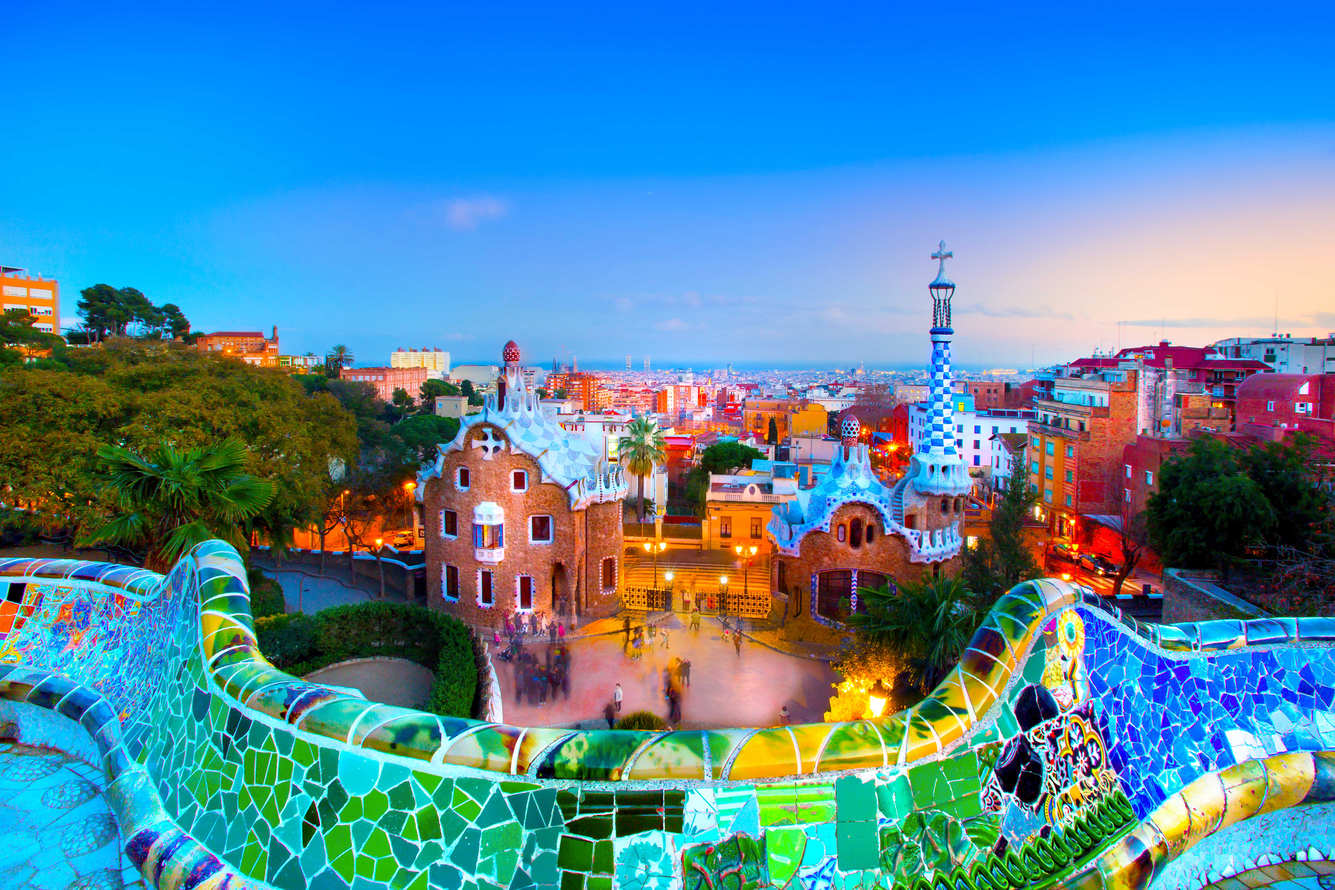
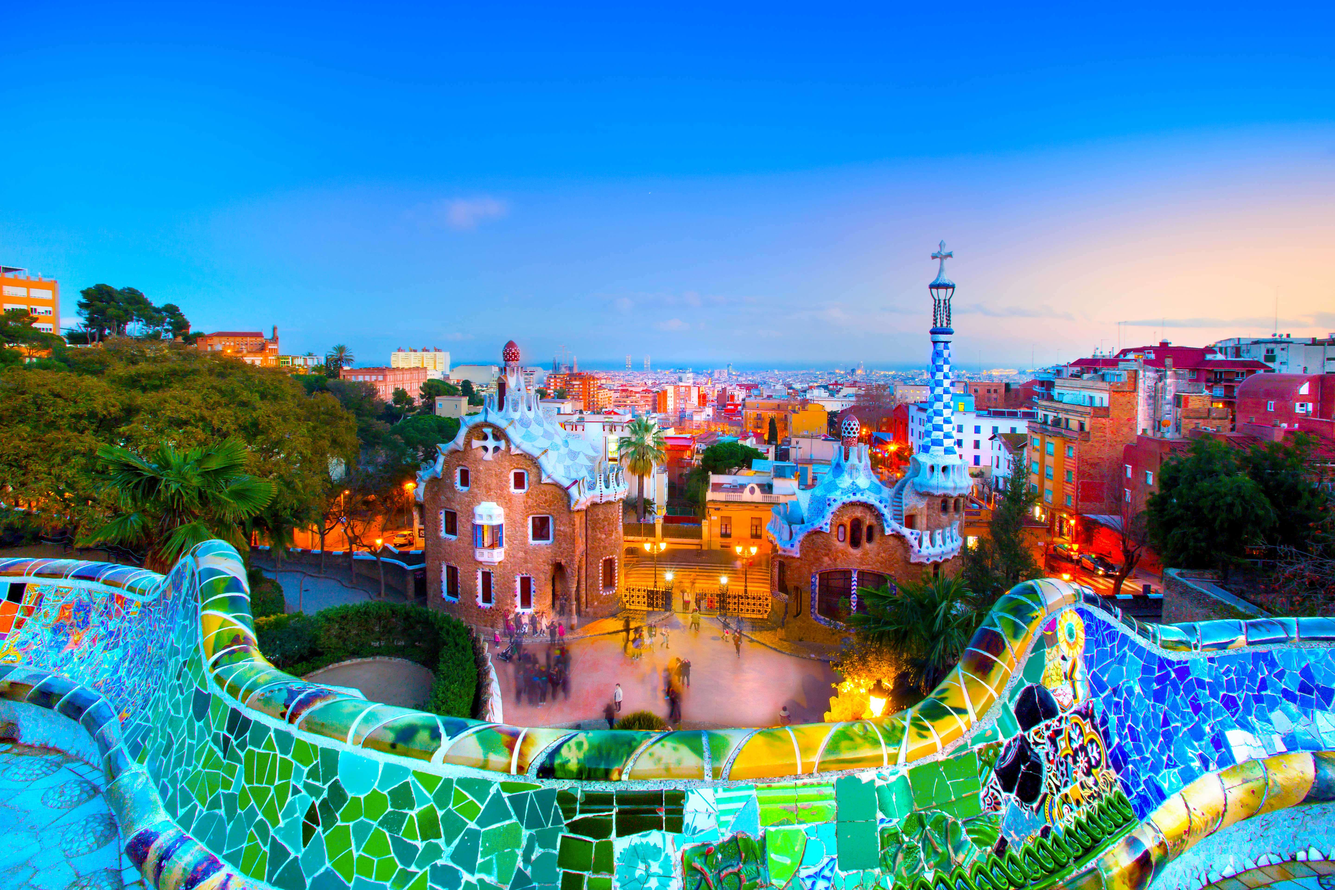
Aggiornate immagini con dimensioni ridotte e aggiunto modifiche html e css

diff --git a/index.html b/index.html
@@ -12,23 +12,28 @@
 		<div><img id="img" src="https://images2.alphacoders.com/685/thumb-1920-685487.jpg" alt="immagine1"></div>
 		<div id="divTesto1"><h2 style="color:antiquewhite" id="testo1">Ho raccolto in questo sito alcune <br>mete per i tuoi viaggi del 2025</h2></div>
 		<div id="divContenitore">
-			<div id="divTesto2">
-				<ul id="testo2">
-					<li><a class="link" onmouseover="changeLinkColor(this, '#E6E6FA')" onmouseout="changeLinkColor(this, '#252850')" href="italia.html">Italia</a><br> <img class="immaginiElenco" src="immaginiIndex/italia.jpg" alt="immagine2"></li>
-					<li>Marocco<br> <img class="immaginiElenco" src="immaginiIndex/marocco.jpg" alt="immagine3"></li>
-					<li>Grecia<br> <img class="immaginiElenco" src="immaginiIndex/grecia.jpeg" alt="immagine4"></li>
-					<li>Spagna<br> <img class="immaginiElenco" src="immaginiIndex/barcellona.jpg" alt="immagine3"></li>
-					<li>California<br> <img class="immaginiElenco" src="immaginiIndex/california.jpg" alt="immagine4"></li>
-			</div>
-			<div id="divTesto3">
-				<ul id="testo2">
-					<li><a class="link"  onmouseover="changeLinkColor(this, '#E6E6FA')" onmouseout="changeLinkColor(this, '#252850')" href="norvegia.html" >Norvegia</a><br> <img class="immaginiElenco" src="immaginiIndex/norvegia.jpg" alt="immagine5"></li>
-					<li>Francia<br> <img class="immaginiElenco" src="immaginiIndex/francia.jpg" alt="immagine6"></li>
-					<li>Albania<br> <img class="immaginiElenco" src="immaginiIndex/albania.jpg" alt="immagine7"></li>
-					<li>Islanda<br> <img class="immaginiElenco" src="immaginiIndex/islanda.jpg" alt="immagine8"></li>
-					<li>Giappone<br> <img class="immaginiElenco" src="immaginiIndex/giappone.jpg" alt="immagine9"></li>
-				  </ul>  
-			</div>
+			<table id="tabella">
+				<tr>
+					<th><a class="link" onmouseover="changeLinkColor(this, '#E6E6FA')" onmouseout="changeLinkColor(this, '#252850')" href="italia.html">Italia</a><br> <img class="immaginiElenco" src="immaginiIndex/italia.jpg" alt="immagine1"><br><br></th>
+					<th><a class="link"  onmouseover="changeLinkColor(this, '#E6E6FA')" onmouseout="changeLinkColor(this, '#252850')" href="norvegia.html" >Norvegia</a><br> <img class="immaginiElenco" src="immaginiIndex/norvegia.jpg" alt="immagine2"><br><br></th>
+				</tr>
+				<tr>
+					<th>Marocco<br> <img class="immaginiElenco" src="immaginiIndex/marocco.jpg" alt="immagine3"><br><br></th>
+					<th>Francia<br> <img class="immaginiElenco" src="immaginiIndex/francia.jpg" alt="immagine4"><br><br></th>
+				</tr>
+				<tr>
+					<th>Grecia<br> <img class="immaginiElenco" src="immaginiIndex/grecia.jpeg" alt="immagine5"><br><br></th>
+					<th>Albania<br> <img class="immaginiElenco" src="immaginiIndex/albania.jpg" alt="immagine6"><br><br></th>
+				</tr>
+				<tr>
+					<th>Spagna<br> <img class="immaginiElenco" src="immaginiIndex/barcellona.jpg" alt="immagine7"><br><br></th>
+					<th>Islanda<br> <img class="immaginiElenco" src="immaginiIndex/islanda.jpg" alt="immagine8"><br><br></th>
+				</tr>
+				<tr>
+					<th>California<br> <img class="immaginiElenco" src="immaginiIndex/california.jpg" alt="immagine9"><br><br></th>
+					<th>Giappone<br> <img class="immaginiElenco" src="immaginiIndex/giappone.jpg" alt="immagine10"><br><br></th>
+				</tr>
+			</table>
 		</div>
 		<footer>Clelia Andreetta</footer>
 	</body>

diff --git a/index.css b/index.css
@@ -19,36 +19,27 @@ header{
 #divContenitore{
 	position: relative;
 	height:2050px;
-	top:-170px;
+	top:-130px;
+	text-align: center;
+}
+#tabella{
+	margin: 0 auto;
+    display: table;
+	color:#252850;
+    font-family: calibri;
+    font-weight: bold;
+    font-size: 28px;
+	list-style: none;
 }
 #divTesto1{
     position: relative;
     top:-250px;
     left: 20px;
 }
-#divTesto2{
-    position: relative;
-	width: 600px;
-	left:150px;
-	top:30px;
-}
-#divTesto3{
-    position: relative;
-	left: 850px;
-	top: -1950px;
-	width: 600px;
-}
 #testo1{
     font-family: calibri;
     font-weight: bold;
     font-size: 38px;
-	list-style: none;
-}
-#testo2{
-    color:#252850;
-    font-family: calibri;
-    font-weight: bold;
-    font-size: 28px;
 	list-style: none;
 }
 .link{
@@ -58,17 +49,6 @@ header{
     height: 350px;
     width: 450px;
 }
-#divDomanda{
-	position: relative;
-	top:-50px;
-}
-#domanda{
-	display: inline;
-	font-family: calibri;
-	font-size: 25px;
-	font-weight: bold;
-	color:#252850;
-}
 .bottone{
 	display: inline; 
 	margin-left: 10px; 
@@ -76,11 +56,6 @@ header{
 	border-color: #252850;
 	background-color: #4682B4;
     color: white;
-}
-#risposta{
-	font-family: calibri;
-	font-size: 20px;
-	color: #4682B4;
 }
 footer{
 	position:relative;

diff --git a/norvegia.html b/norvegia.html
@@ -16,8 +16,8 @@
                Puoi fare un giro in motoslitta e se sarai fortunato potrai vedere l'aurora boreale.
             </p>
         </div>
-        <div id="tabella">
-            <table>
+        <div id="contenitore">
+            <table id="tabella">
                 <tr>
                     <th><img class="immagini" src="immaginiNorvegia/auroraBoreale.jpg" alt="immagine1"></th>
                     <th><img class="immagini" src="immaginiNorvegia/oslo.jpg" alt="immagine2"></th>

diff --git a/italia.html b/italia.html
@@ -16,8 +16,8 @@
                 Inoltre il buon cibo non manca mai. 
             </p>
         </div>
-        <div id="tabella">
-            <table>
+        <div id="contenitore">
+            <table id="tabella">
                 <tr>
                     <th><img class="immagini" src="immaginiItalia/roma.jpg" alt="immagine1"></th>
                     <th><img class="immagini" src="immaginiItalia/milano.jpg" alt="immagine2"></th>

diff --git a/mete.css b/mete.css
@@ -8,11 +8,14 @@
     font-size: 18px;
     font-weight: bold;
 }
-#tabella{
+#contenitore{
     position: relative;
-    width: 1220px;
-    left: 150px;
     height: 700px;
+    text-align: center;
+}
+#tabella{
+    margin: 0 auto;
+    display: table;
 }
 #divBottone{
     position: relative;
